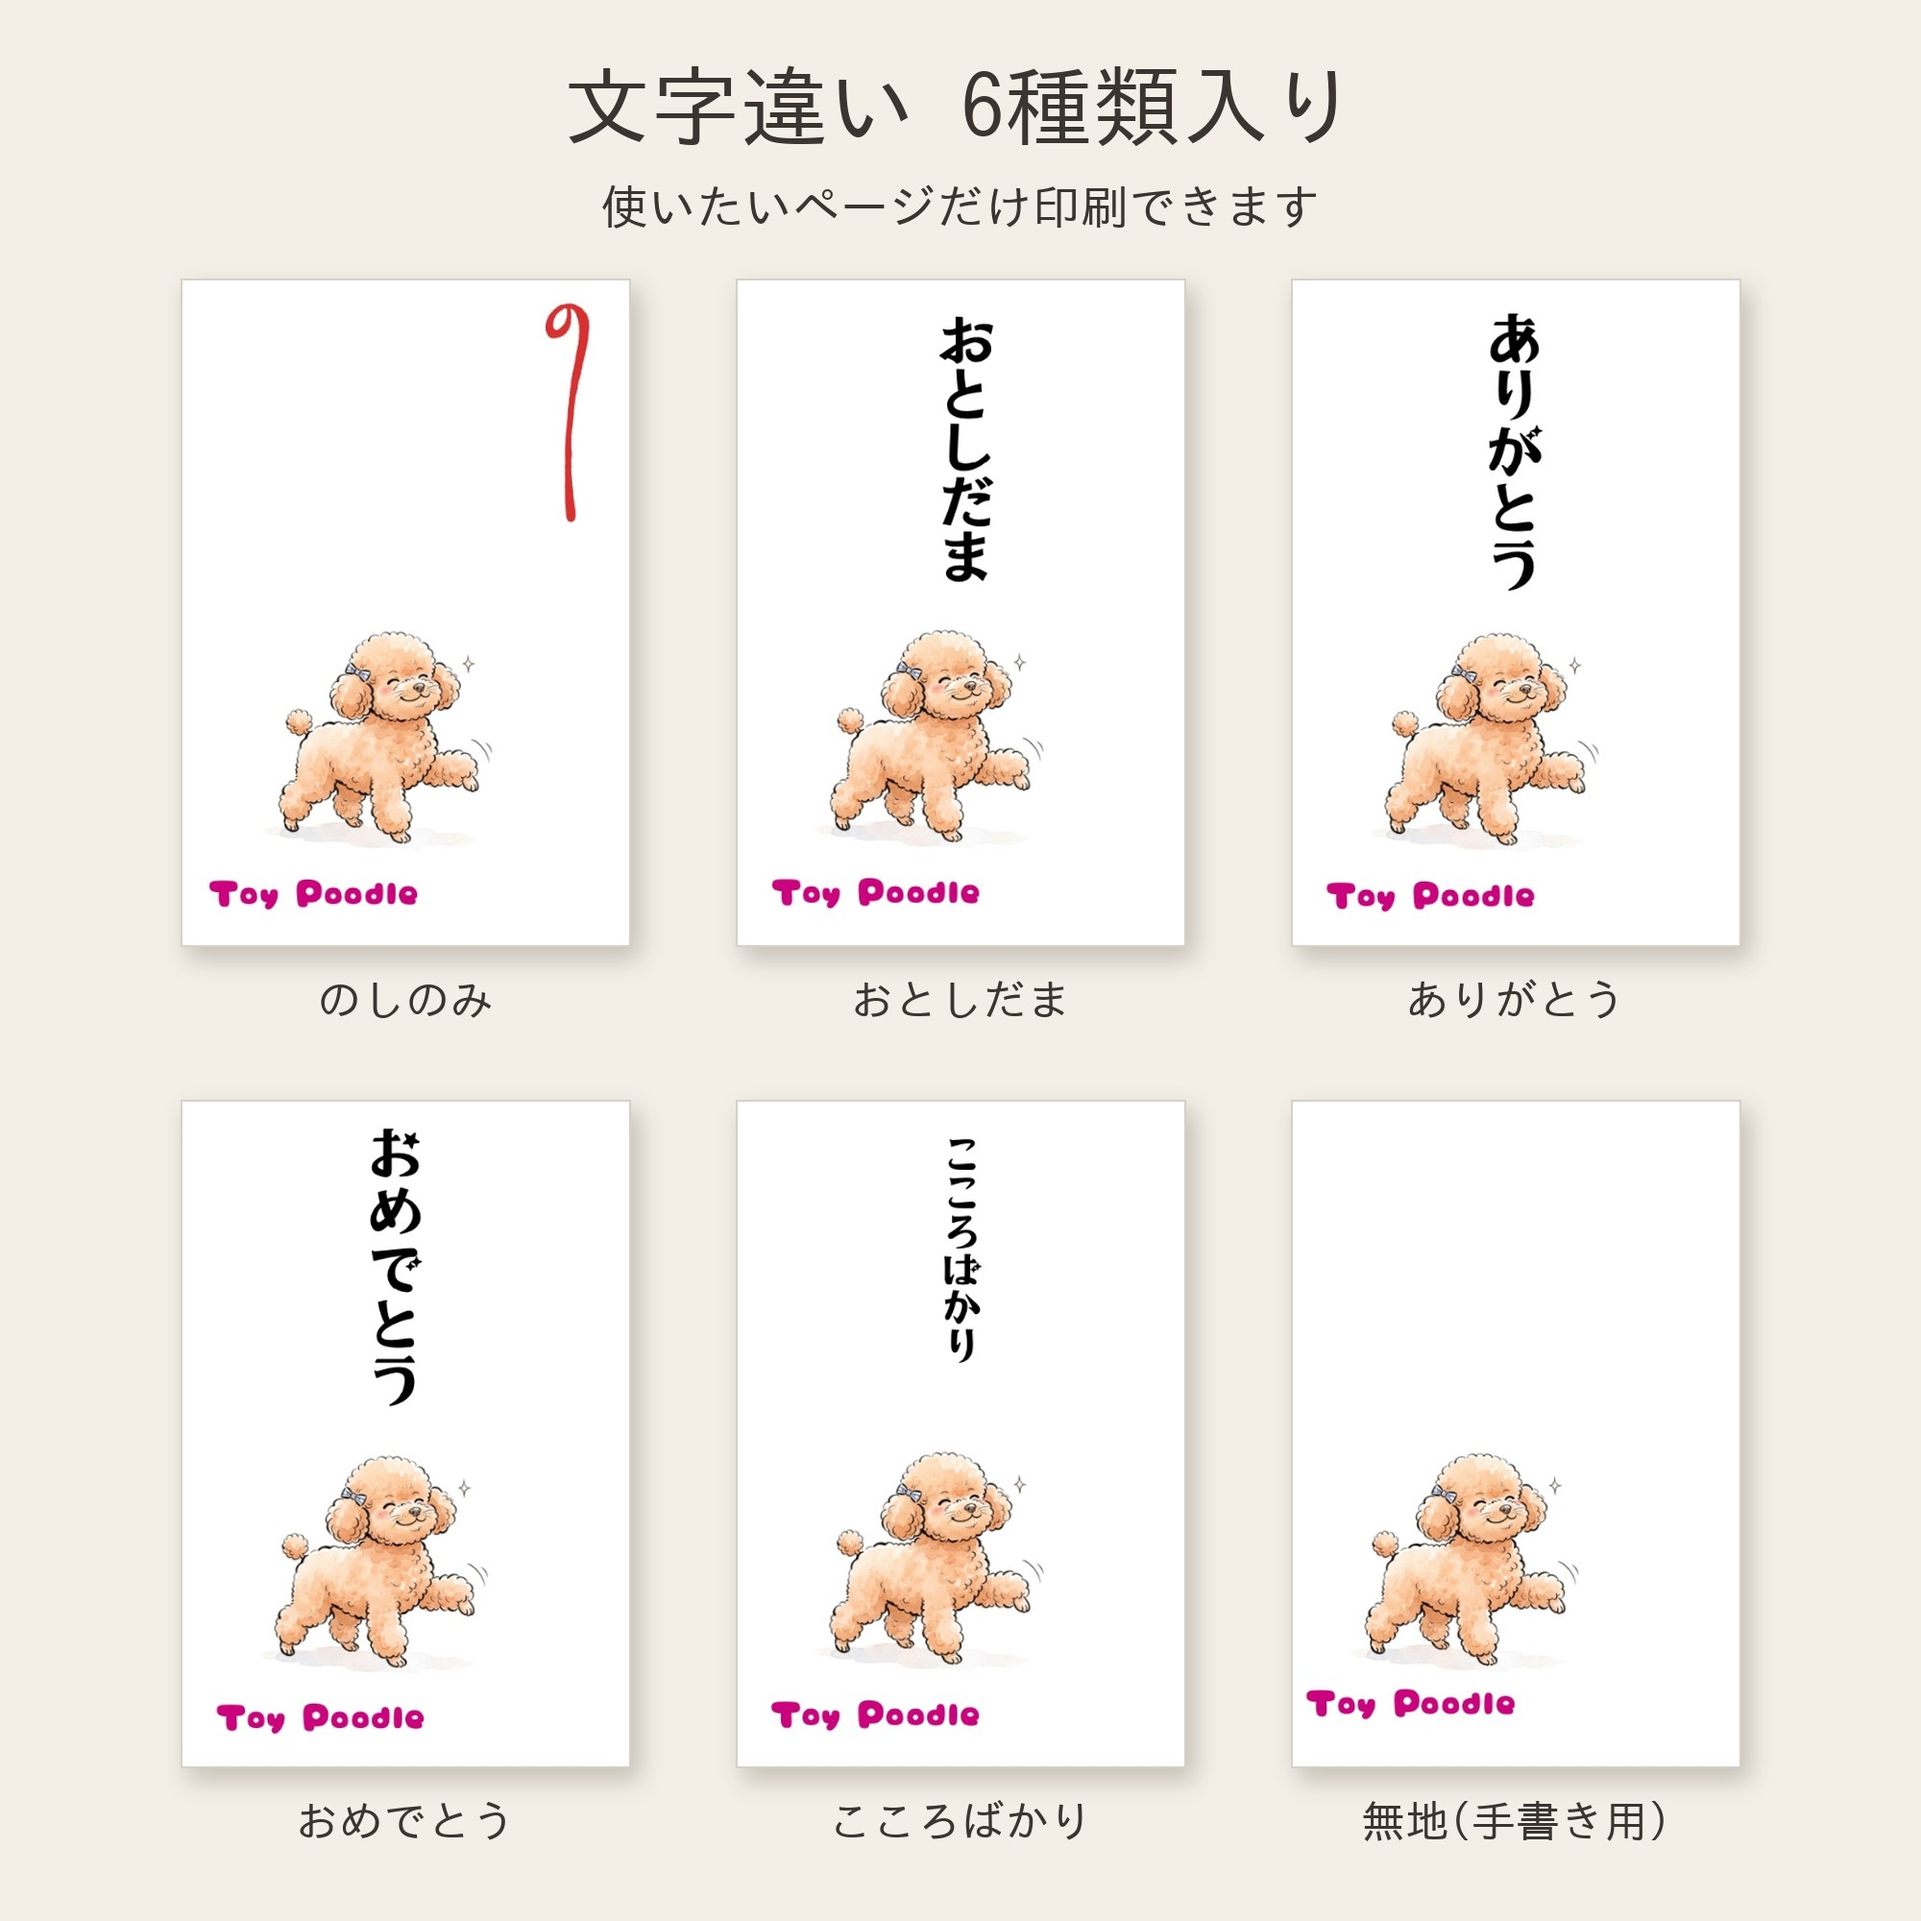
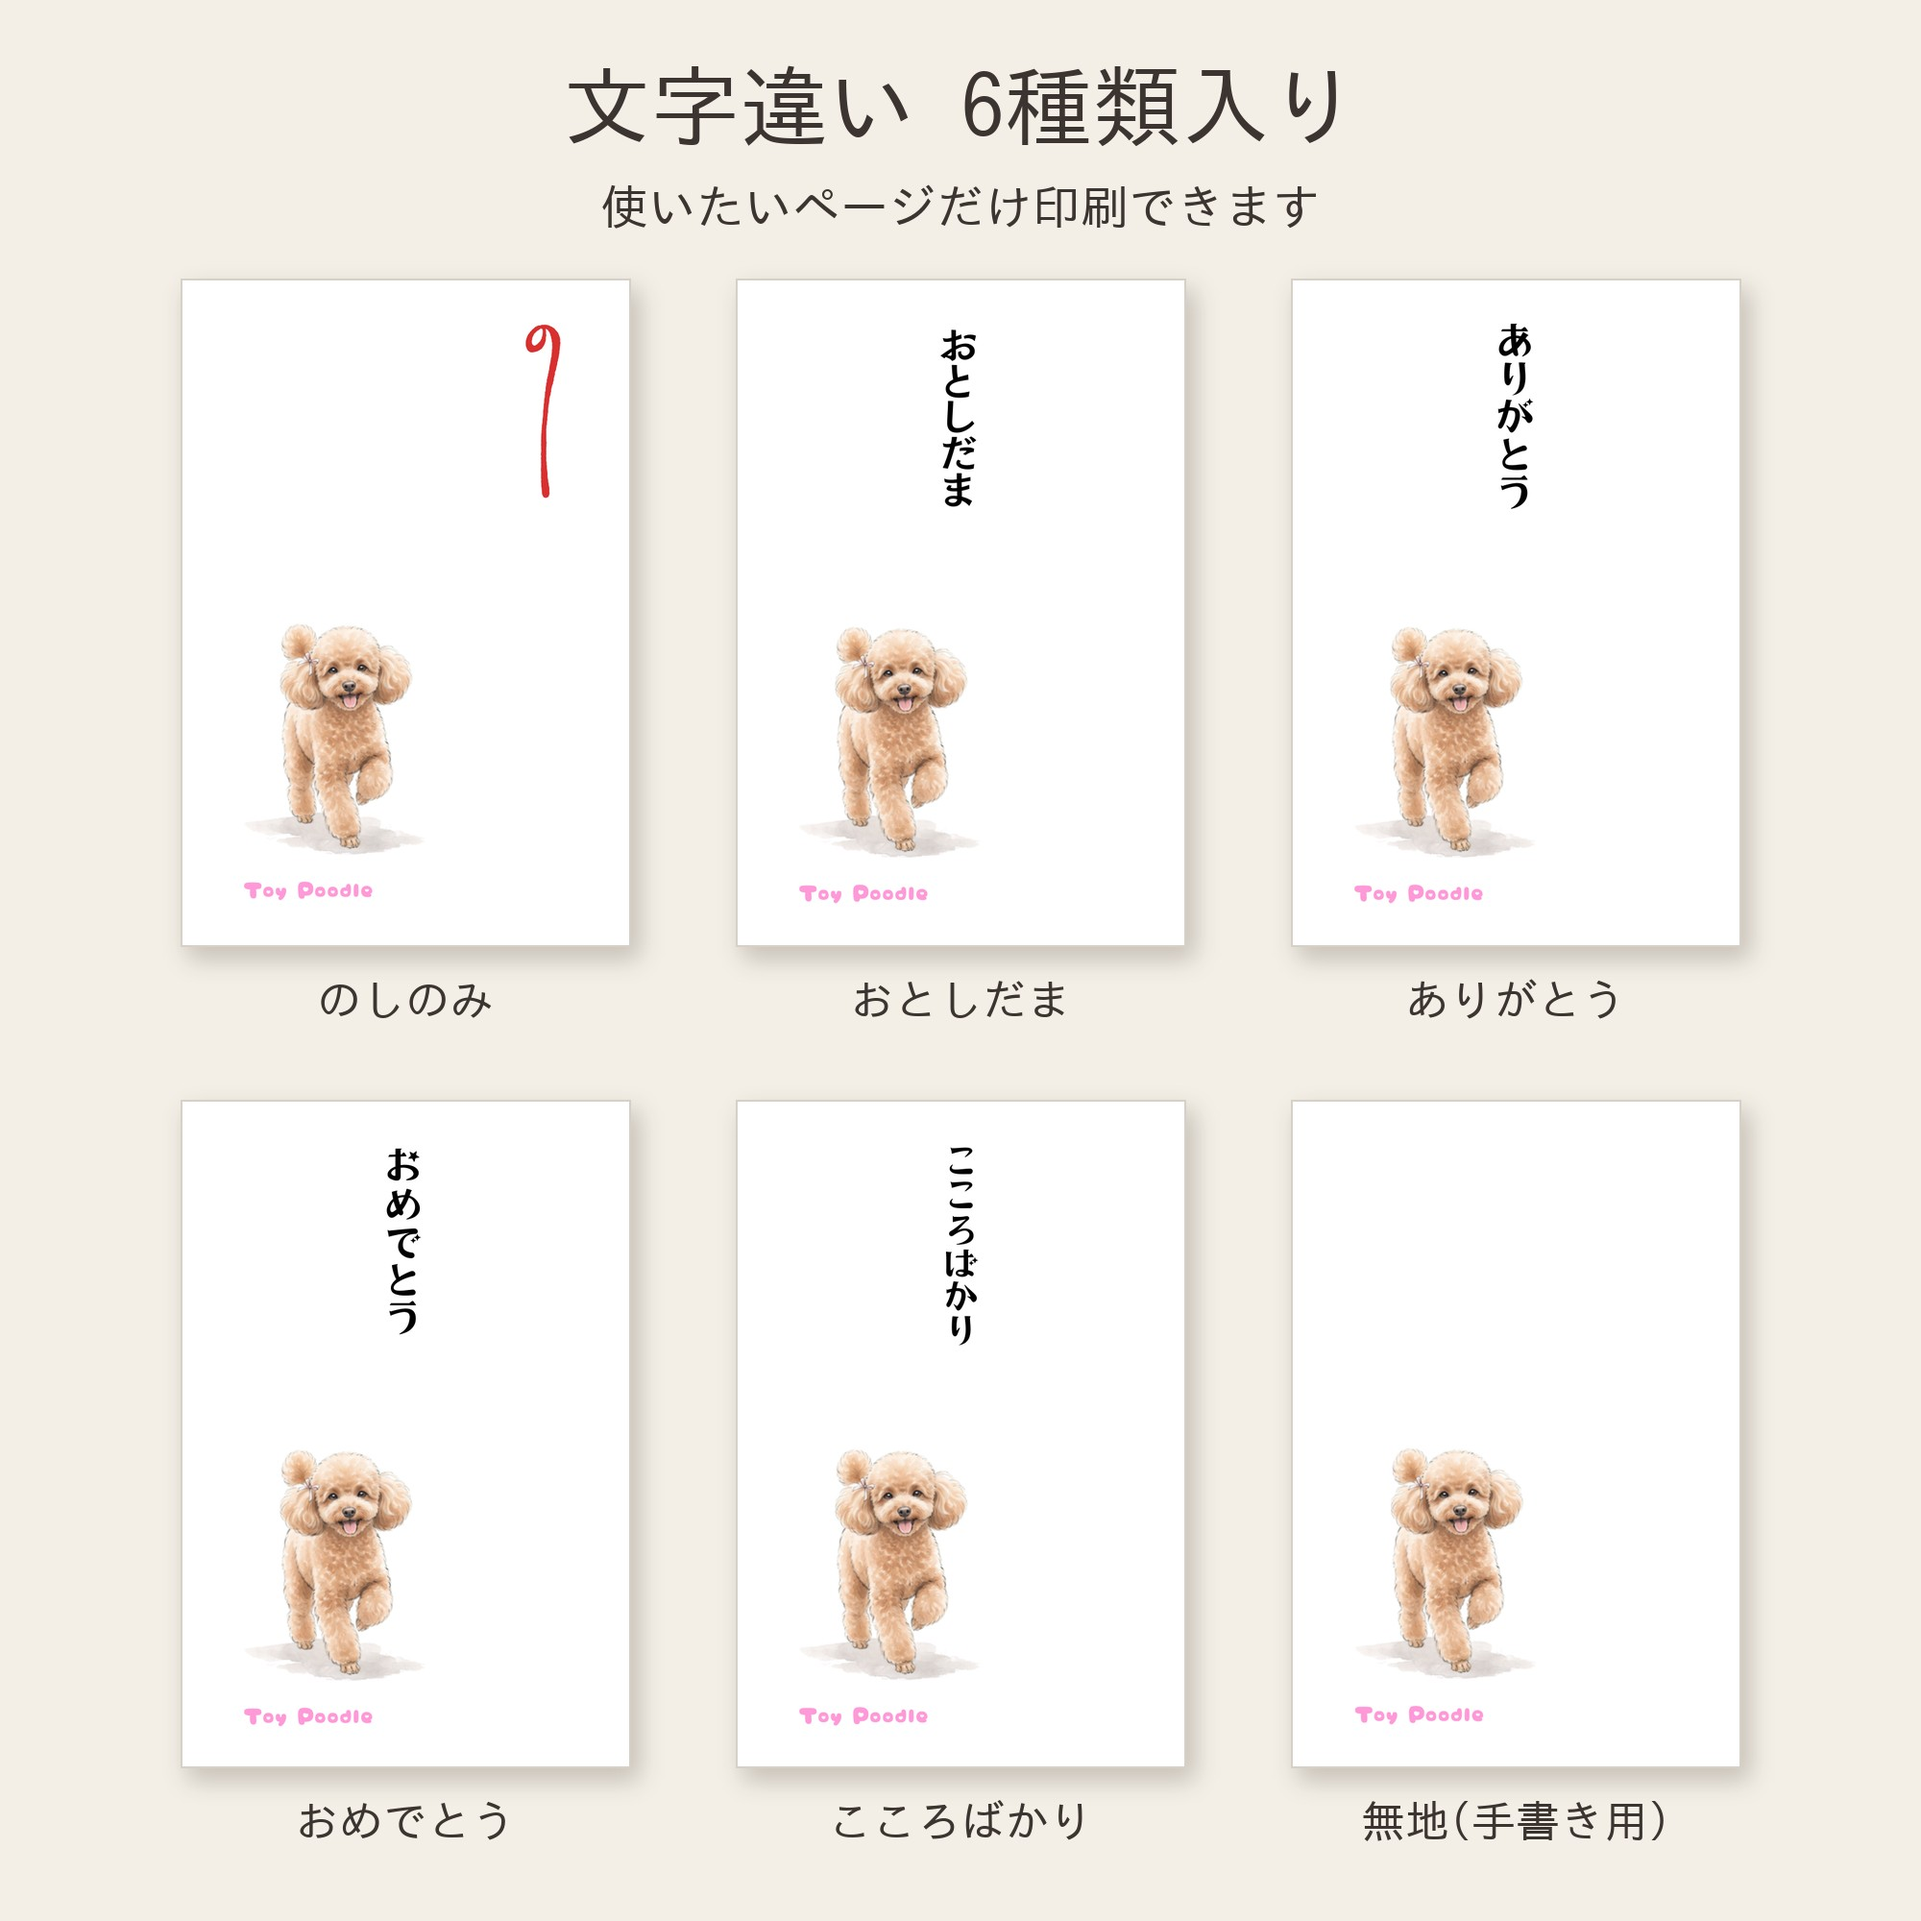
トイプードル: 作り直した絵で商品画像(1・3枚目)と、ポストカード入りの出品文
Claude-Session: https://claude.ai/code/session_017Q7oY74jx7snH393ipSzN7

diff --git a/docs/minne-pochi-listing-toypoodle.md b/docs/minne-pochi-listing-toypoodle.md
@@ -1,29 +1,33 @@
-# 出品文(STEP5) トイ・プードルのぽち袋 データ版
+# 出品文(STEP5) トイプードルのぽち袋+ポストカード データ版
 
-柴犬のひな形(`minne-pochi-listing-shiba.md`)から、犬種名・あるある・ファイル名・タグ1つを差し替えたもの。
+犬の新しい形(500円)に、ポストカード2種を足した版(柴犬と同じ形)。絵は墨絵の書き方に直した指示文(`minne-pochi-dogs-painterly.md` のトイ・プードル。3回目でうれしい顔に)で作り直した。Canvaの共通マスターで作り、画像はPDFから `shop/make_from_pdf.py` で作った。
 
 ## 商品名
-トイプードルのぽち袋 トリミング帰りのドヤ顔｜お年玉・お礼に｜印刷して作るダウンロード版 のし付き6種(AIを用いた作品)
+トイプードルのぽち袋とポストカード トリミング帰りのごきげん顔｜お年玉・お礼に｜印刷して作るダウンロード版 のし付き6種(AIを用いた作品)
+- 前は「ドヤ顔」だった。絵をうれしい顔に作り直したので「ごきげん顔」にした
+- minneの商品名の文字数の上限に入るか、出品の画面で確かめる。入らないときは「｜お年玉・お礼に」を外す
 
 ## 価格(仮)
 500円
-- 理由: 1つのデータで6種類の文字違いが入り、個人で使う分は何枚でも印刷できる。紙のぽち袋5枚セット(数百円〜)より安く、気軽に試せる値段。
-- **出品前にminneで「ぽち袋 ダウンロード」を検索し、同じようなデータの価格を確かめる。** 相場が200円前後なら合わせる。
 
 ## 発送
 なし(ダウンロード販売。購入後すぐにダウンロードできる)
 
 ## タグ(5つ)
-トイプードル / トリミング / ぽち袋 / お年玉袋 / 犬好き
+トイプードル / トリミング / ぽち袋 / ポストカード / お年玉袋
+- 前の「犬好き」を「ポストカード」にした
 
 ## 説明文
 ```
-トリミングから帰ってきた日は、つま先立ちで跳ねるように歩いて、あごを上げて「見て見て」の得意顔。
-トイ・プードルと暮らす人なら、きっと知っている「ほめられ待ち」の顔を、ぽち袋にしました。
+トリミング帰りは、ふわふわの毛がまんまる。つま先で弾むように歩いてきて、口をあけてにっこり。「見て見て、かわいくなったでしょ!」と、うれしくてたまらない様子です。
+トイプードルと暮らす人なら、きっと知っている「トリミング帰りのごきげん顔」を、ぽち袋とポストカードにしました。
 
 お年玉やちょっとしたお礼を渡すとき、袋を見た相手が「うちの子もこれやる!」と笑ってくれたら。そんな一枚になればうれしいです。
+ポストカードは、飾ったり、お手紙に使ったりできます。
 
 絵は、墨と淡い水彩で描いたような雰囲気に仕上げました。ぽち袋という和の袋に合うように、落ち着いた色にしています。
+
+※画像は『かんたん4ステップ』以外、AIで作ったイメージ画像です。袋の絵柄は実際の商品と同じです。
 
 ━━━━━━━━━━
 ■ 中身(ZIPファイル1つ)
@@ -32,9 +36,12 @@
  1ページに同じ袋が2つ入っています。使いたいページだけを印刷してください。
  1:のしも文字もなし(手書き用) 2:のしのみ 3:おとしだま
  4:ありがとう 5:おめでとう 6:こころばかり
+・toypoodle_postcard_full.pdf(ポストカード・絵を大きく入れたもの、ハガキの大きさ)
+・toypoodle_postcard_letter.pdf(ポストカード・手紙用。すみに小さく絵を入れ、文字を書くところを広くとったもの)
 ・howto.pdf(作り方とご利用について、A4・3ページ)
 
-仕上がりの大きさ:64×95mm(一万円札を三つ折りにして入ります)
+ぽち袋の仕上がりの大きさ:64×95mm(一万円札を三つ折りにして入ります)
+ポストカードの大きさ:100×148mm(はがきと同じ大きさです)
 
 ━━━━━━━━━━
 ■ 作り方
@@ -45,6 +52,8 @@
 貼るときは、スティックのり(固形のり)か両面テープをお使いください。液体のりは、水分でインクがにじむことがあります(とくにインクジェットプリンター)。
 ふたは、シールや両面テープで留めてください。
 詳しくは、中に入っている説明書をご覧ください。
+
+ポストカードは、はがき用紙に「実寸(100%)」で印刷するだけで使えます(切る必要はありません)。プリンターの用紙の設定は「はがき」を選んでください。
 
 ━━━━━━━━━━
 ■ ご注意
@@ -70,19 +79,32 @@
 ない犬種・猫の柄は、メッセージでリクエストをお寄せください。多頭飼いの方の組み合わせのご相談もどうぞ。
 ```
 
-
 ## 確かめること(出品前)
-- 絵の毛色はアプリコット。ほかの毛色(レッド、ブラウン、ホワイトなど)も欲しいという声があれば、毛色違いを別の出品にする
-- 絵が「トリミング帰り・あごを上げた得意顔」になっているか。違う場面なら、説明文の最初の2行を絵に合わせて直す
+- 絵を確かめた(作り直した絵): アプリコットのトイプードル(成犬)が、テディベアカットでこちらへ弾むように歩いてくる。口をあけて舌を少し出し、うれしそうな顔。耳に小さなピンクのリボン。漫画っぽさはない。説明文と合っている
+- 袋の名前は「Toy Poodle」(ピンクの丸い書体)。18か所とも正しいつづり。縦書きの文字は黒
+- 袋の表は6ページとも64×95mm
+- 前の場面写真(ユーザーが自分で作ったもの)は、前の絵なので使わない
+
+## 場面写真(Geminiのプロンプト)
+袋は真っ白で、ふたを閉じた表側だけ(ふたの線なし、幅:高さ=2:3)で作ってもらい、本物の絵はあとで `shop/make_scene_blank.py` で貼る。
+```
+A warm, natural lifestyle photo, square 1:1. A cozy Japanese entryway (genkan) in soft afternoon light, with a light-wood floor. The background is softly blurred.
+
+On the wooden floor, one small closed Japanese pochi-bukuro money envelope stands upright, propped against a small wooden box. We see only its FRONT side: one clean, flat, plain rectangle of matte white paper with crisp square corners. The flap is already closed and folded to the back, so NO flap, NO V-shaped fold, NO seam and NO fold lines are visible on the front. The rectangle is exactly 2:3 in width to height (6.4 cm wide, 9.5 cm tall), not narrower. The front is COMPLETELY BLANK: no drawing, no text, no pattern, no logo, no noshi mark. The envelope faces the camera straight on, flat and not tilted, with all four corners clearly visible and not covered by anything. It stands in the front right of the frame and takes up about 25% of the image width, large and easy to see.
+
+On the left, a real apricot toy poodle with a fresh, fluffy teddy-bear cut and a tiny pink ribbon on one ear, just home from the groomer, trots happily toward the camera on the floor with a big happy dog smile: mouth open, a little pink tongue showing, head slightly tilted, bright joyful eyes. Real dog, not a cartoon. The dog does not touch or cover the envelope.
+
+Photorealistic, shallow depth of field, gentle shadows, calm muted colors. No people, no hands, no text anywhere in the image.
+```
 
 ## ZIPの名前
-uchinoko-aruaru_toypoodle_pochi.zip
+uchinoko-aruaru_toypoodle_pochi.zip(中身: toypoodle_pochi.pdf、toypoodle_postcard_full.pdf、toypoodle_postcard_letter.pdf、howto.pdf)
 
 ## 商品画像
 1. shop/listing_toypoodle_1.jpg(デザイン見本)
-2. shop/listing_toypoodle_3.jpg(6種類)
-3. shop/listing_shiba_4.jpg(作り方)
-
-## 説明文に入れる一文(ユーザーの決まり)
-説明文の「絵は、墨と淡い水彩で…落ち着いた色にしています。」の段落の次に、1行あけてこの一文を入れる:
-`※画像は『かんたん4ステップ』以外、AIで作ったイメージ画像です。袋の絵柄は実際の商品と同じです。`
+2. shop/scene_toypoodle_1_note.jpg(場面写真)(まだ。Geminiの写真を待っている)
+3. shop/listing_toypoodle_3.jpg(6種類)
+4. shop/listing_toypoodle_postcard.jpg(ポストカード2種の見本)(まだ。もとの絵を待っている)
+5. ポストカードの場面写真(まだ)
+6. shop/listing_shiba_4.jpg(作り方)
+- 1と3は `python3 shop/make_from_pdf.py <PDF> toypoodle --overwrite` で作った
